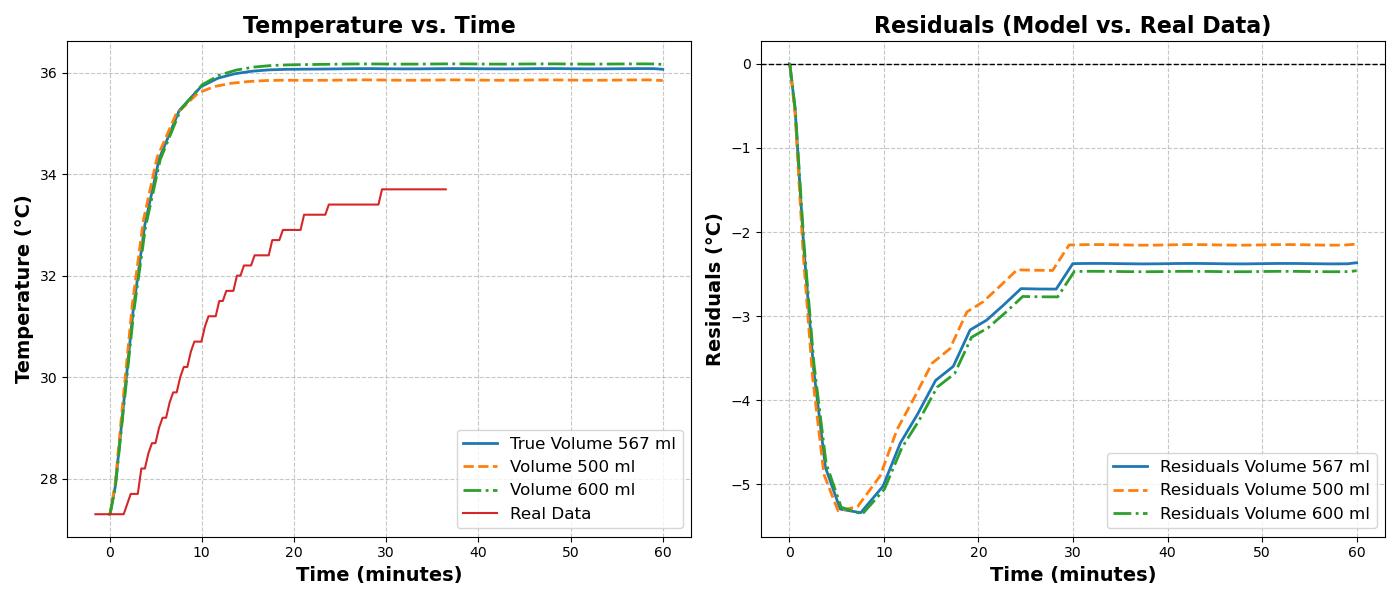
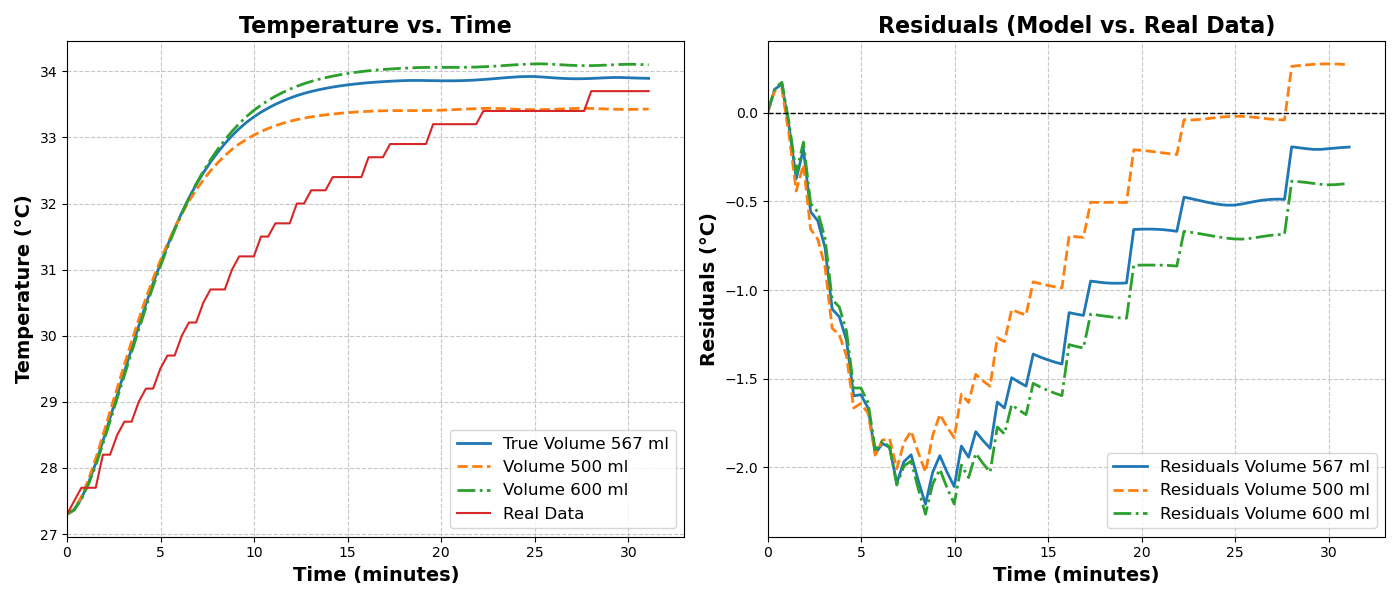
update Plotting_Same_exp_diff_vol.py and CSTR_Volume_realvsfake.png

diff --git a/CSTR Code/Plotting_Same_exp_diff_vol.py b/CSTR Code/Plotting_Same_exp_diff_vol.py
@@ -7,7 +7,7 @@ import scipy.integrate
 # Assume constant density
 
 
-def CSTR_model(T,fv1,fv2, V=500, tspan = [0,3600]):
+def CSTR_model(T,fv1,fv2, V=500, tspan = [0,3600], t_eval=np.linspace(0,3600,500)):
     '''Models the behavior of the reaction: Water + Acetic Anhydride -> 2 * Acetic acid in an adiabatic CSTR reactor. \n
     Required Arguments: \n
     T = inlet temperature for the reactor given in units celsius \n
@@ -42,10 +42,10 @@ def CSTR_model(T,fv1,fv2, V=500, tspan = [0,3600]):
         "Inlet temperature": T+273.15, # Temp but now in kelvin
         "flow": flow_array,
         "V": v_cstr,  # Volume in ml
-        "k0": 5198.17647e4,          # Reaction rate constant (ml/mol/s)
+        "k0": 4.4e15,          # Reaction rate constant (ml/mol/s)
 
         # Thermodynamic constants (taken from Asprey et al., 1996)
-        "Ea": 47234.548502613135,             # Activation energy (J/mol)
+        "Ea": 9.62e4,             # Activation energy (J/mol)
         "R": 8.314,              # Gas constant (J/mol/K)
         "H": -56.6e3,              # Enthalpy change (J/mol)
         "rho": 1,            # Density (g/ml)
@@ -53,7 +53,7 @@ def CSTR_model(T,fv1,fv2, V=500, tspan = [0,3600]):
     }
     # print(params['C_in_AAH']*params['C_in_water'])
     xini = [cw_pure,0,0,T+273.15] # Initial Conditions 
-    sol_me = scipy.integrate.solve_ivp(der_func, tspan, xini, args=(params,))
+    sol_me = scipy.integrate.solve_ivp(der_func, tspan, xini, args=(params,), t_eval=t_eval)
     return sol_me
 
 def der_func(t,C, parameters):
@@ -144,16 +144,20 @@ if __name__ == '__main__':
     # Extract the data
     data_22c = data_extract('Data\\CSTR\\Runs 16.09\\CSTR 27c.csv')
 
+    time_data = np.array(data_22c[0][8:90])
+    conc_data = np.array(data_22c[1][8:90])
+    time_data = time_data-time_data[0]
+    
     # Run the models for different volumes
-    sol_mereal = CSTR_model(data_22c[2], data_22c[4], data_22c[3], V=567)
-    sol_me500 = CSTR_model(data_22c[2], data_22c[4], data_22c[3], V=500)
-    sol_me600 = CSTR_model(data_22c[2], data_22c[4], data_22c[3], V=600)
+    sol_mereal = CSTR_model(data_22c[2], data_22c[4], data_22c[3], V=567, t_eval=np.linspace(time_data[0], time_data[-1]*60, len(time_data)))
+    sol_me500 = CSTR_model(data_22c[2], data_22c[4], data_22c[3], V=500, t_eval=np.linspace(time_data[0], time_data[-1]*60, len(time_data)))
+    sol_me600 = CSTR_model(data_22c[2], data_22c[4], data_22c[3], V=600, t_eval=np.linspace(time_data[0], time_data[-1]*60, len(time_data)))
+
 
     # Calculate the residuals (difference between real and modeled temperatures)
-    real_time_interp = np.interp(sol_mereal.t / 60, data_22c[0], data_22c[1])
-    residual_567 = real_time_interp - (sol_mereal.y[3, :] - 273.15)
-    residual_500 = real_time_interp - (sol_me500.y[3, :] - 273.15)
-    residual_600 = real_time_interp - (sol_me600.y[3, :] - 273.15)
+    # After extracting the data and running the models
+    # Calculate the residuals for each model
+
 
     # Create a figure with two subplots (1 row, 2 columns)
     fig, (ax1, ax2) = plt.subplots(1, 2, figsize=(14, 6))
@@ -162,7 +166,7 @@ if __name__ == '__main__':
     ax1.plot(sol_mereal.t / 60, sol_mereal.y[3, :] - 273.15, label='True Volume 567 ml', color='tab:blue', linewidth=2)
     ax1.plot(sol_me500.t / 60, sol_me500.y[3, :] - 273.15, label='Volume 500 ml', color='tab:orange', linestyle='--', linewidth=2)
     ax1.plot(sol_me600.t / 60, sol_me600.y[3, :] - 273.15, label='Volume 600 ml', color='tab:green', linestyle='-.', linewidth=2)
-    ax1.plot(data_22c[0], data_22c[1], label='Real Data', color='tab:red')
+    ax1.plot(time_data, conc_data, label='Real Data', color='tab:red')
 
     # Customize the first plot (temperature vs. time)
     ax1.set_xlabel('Time (minutes)', fontsize=14, weight='bold')
@@ -170,11 +174,11 @@ if __name__ == '__main__':
     ax1.set_title('Temperature vs. Time', fontsize=16, weight='bold')
     ax1.legend(fontsize=12)
     ax1.grid(True, linestyle='--', alpha=0.7)
-
+    ax1.set_xlim(0,33)
     # Plot the residuals (difference between real data and model) on the right subplot
-    ax2.plot(sol_mereal.t / 60, residual_567, label='Residuals Volume 567 ml', color='tab:blue', linewidth=2)
-    ax2.plot(sol_me500.t / 60, residual_500, label='Residuals Volume 500 ml', color='tab:orange', linestyle='--', linewidth=2)
-    ax2.plot(sol_me600.t / 60, residual_600, label='Residuals Volume 600 ml', color='tab:green', linestyle='-.', linewidth=2)
+    ax2.plot(sol_mereal.t / 60, conc_data-sol_mereal.y[3,:]+273.15, label='Residuals Volume 567 ml', color='tab:blue', linewidth=2)
+    ax2.plot(sol_me500.t / 60, conc_data-sol_me500.y[3,:]+273.15, label='Residuals Volume 500 ml', color='tab:orange', linestyle='--', linewidth=2)
+    ax2.plot(sol_me600.t / 60, conc_data-sol_me600.y[3,:]+273.15, label='Residuals Volume 600 ml', color='tab:green', linestyle='-.', linewidth=2)
 
     # Customize the second plot (residuals)
     ax2.set_xlabel('Time (minutes)', fontsize=14, weight='bold')
@@ -183,7 +187,7 @@ if __name__ == '__main__':
     ax2.legend(fontsize=12)
     ax2.grid(True, linestyle='--', alpha=0.7)
     ax2.axhline(0, color='black', linestyle='--', linewidth=1)
-
+    ax2.set_xlim(0,33)
     # Tight layout for better spacing
     plt.tight_layout()
 
